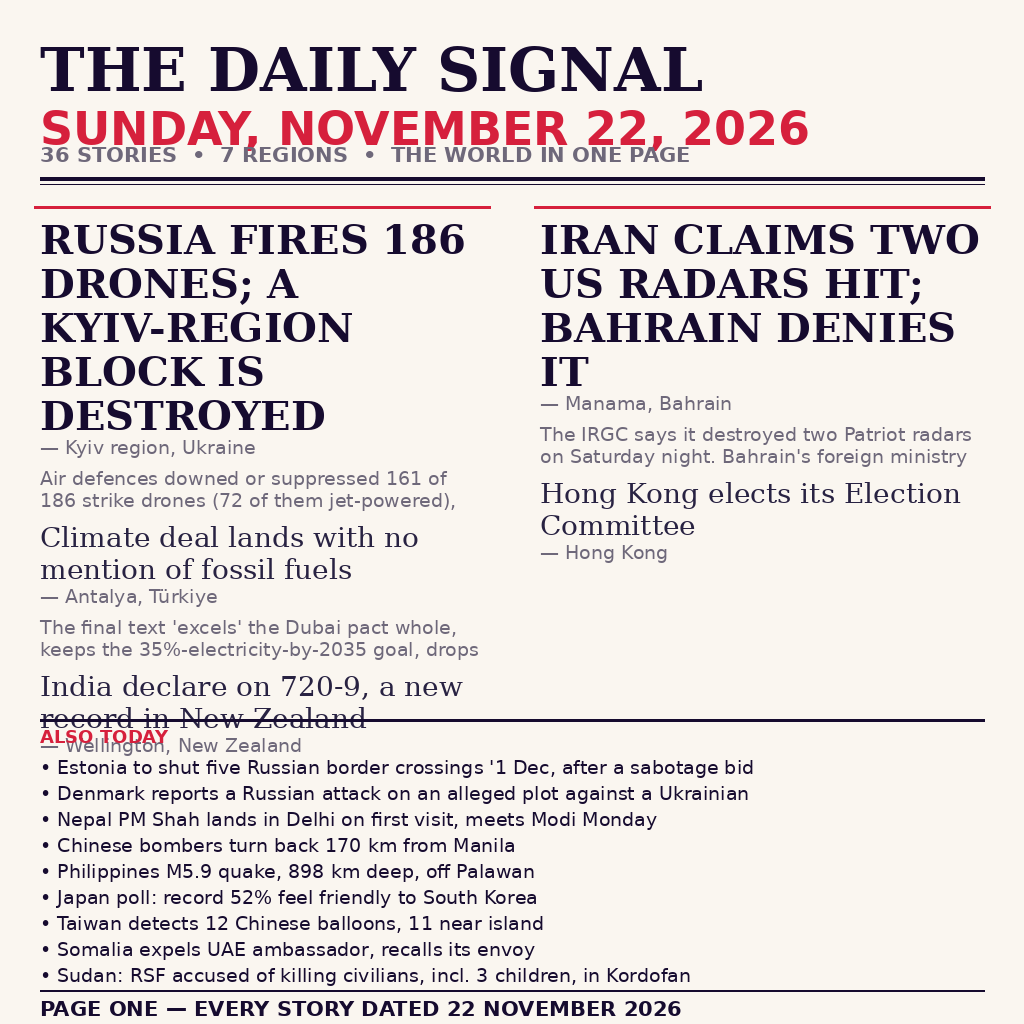
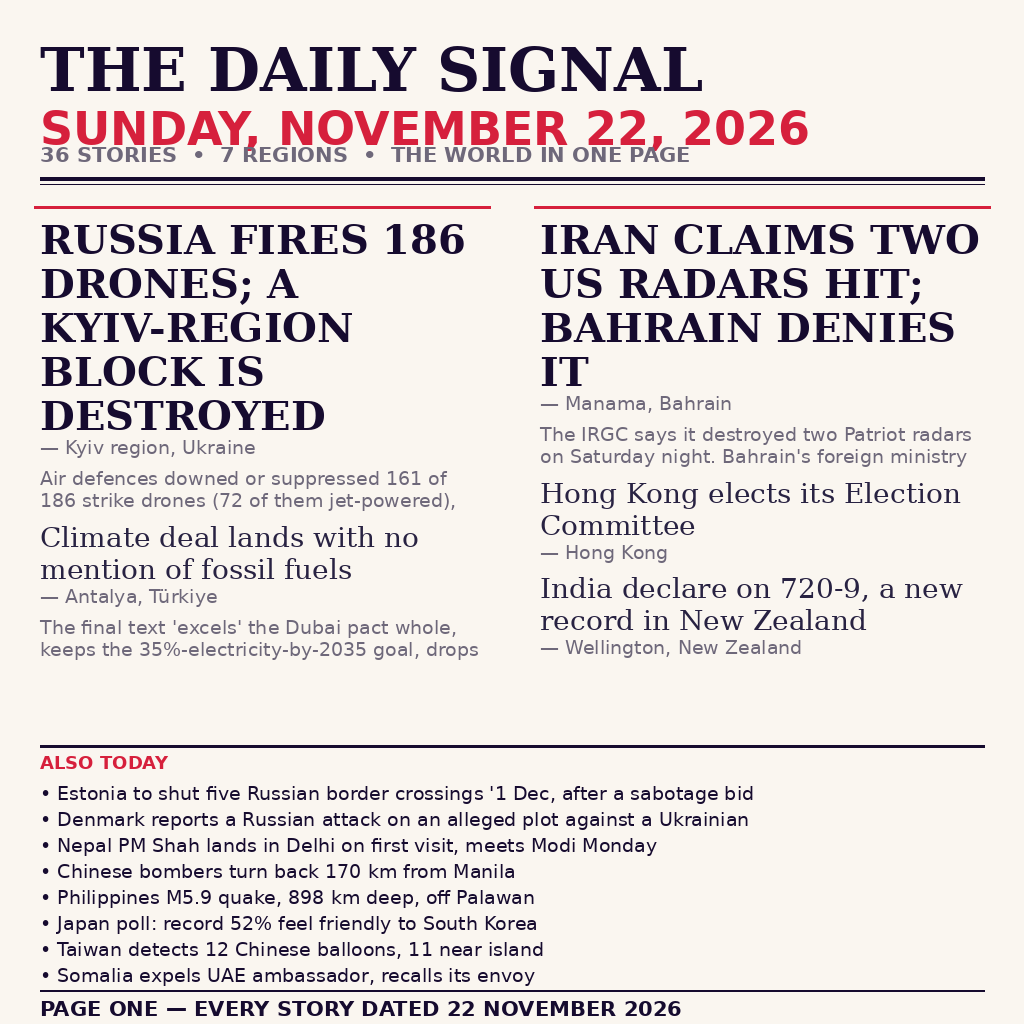
Layout v5: balanced columns, clean ALSO TODAY zone; owner wallet

Changed region(s): [[0.0312, 0.6562, 0.75, 0.9688], [0.5312, 0.5625, 0.9375, 0.6562]]

diff --git a/main.py b/main.py
@@ -125,17 +125,19 @@ def main():
     story_sub(0, _clean(news["stories"][1].get("summary", ""), 200))
 
     # fill remaining cards alternating columns
-    ci = 1
     for s in items:
         if s["n"] in (1, 3, 2):
             continue
+        ci = 0 if y[0] <= y[1] else 1  # kolom paling kosong dulu (balance)
+        if y[ci] > H - 430:
+            if y[1 - ci] <= H - 430:
+                ci = 1 - ci
+            else:
+                break
         story_head(ci, s.get("tier", "card"), hl(s), s.get("place"))
-        if y[ci] > H - 380:
-            break
-        ci = 1 - ci
 
     # ---- briefs ticker at bottom (single column, full width, no overlap) ----
-    yb = H - 288
+    yb = H - 262
     d.line((40, yb - 16, W - 40, yb - 16), fill=INK, width=3)
     d.text((40, yb - 10), "ALSO TODAY", font=f_region, fill=ACCENT)
     yb += 20
